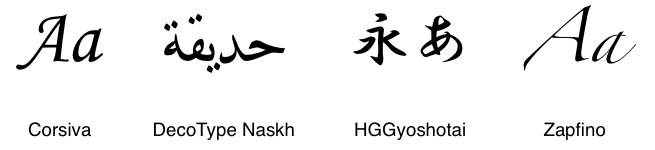
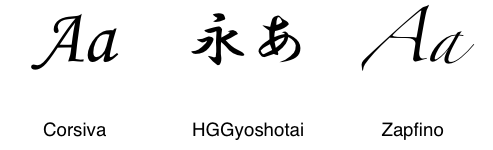
[css-fonts] fixup Arabic references in description of generic fonts

diff --git a/css-fonts/Fonts.html b/css-fonts/Fonts.html
@@ -782,16 +782,19 @@ body { font-family: "New Century Schoolbook", serif }
   <h5 class="no-num no-toc"> <span class=index-def id=serif0 title="serif,
    definition of"><a name=serif-def><dfn id=serif>serif</dfn></a></span></h5>
 
-  <p>Glyphs of serif fonts, as the term is used in CSS, have finishing
-   strokes, flared or tapering ends, or have actual serifed endings
-   (including slab serifs). Serif fonts are typically proportionately-spaced.
-   They often display a greater variation between thick and thin strokes than
-   fonts from the ‘<a href="#sans-serif"><code
-   class=property>sans-serif</code></a>’ generic font family. CSS uses the
-   term ‘<a href="#serif"><code class=property>serif</code></a>’ to apply
-   to a font for any script, although other names may be more familiar for
-   particular scripts, such as Mincho (Japanese), Sung, Song or Kai
-   (Chinese), Batang (Korean). Any font that is so described may be used to
+  <p>Serif fonts represent the formal text style for a script. This often
+   means but is not limited to glyphs that have finishing strokes, flared or
+   tapering ends, or have actual serifed endings (including slab serifs).
+   Serif fonts are typically proportionately-spaced. They often display a
+   greater variation between thick and thin strokes than fonts from the ‘<a
+   href="#sans-serif"><code class=property>sans-serif</code></a>’ generic
+   font family. CSS uses the term ‘<a href="#serif"><code
+   class=property>serif</code></a>’ to apply to a font for any script,
+   although other names may be more familiar for particular scripts, such as
+   Mincho (Japanese), Sung, Song or Kai (Chinese), Batang (Korean). For
+   Arabic, the Naskh style would correspond to ‘<a href="#serif"><code
+   class=property>serif</code></a>’ more due to its typographic role rather
+   than its actual design style. Any font that is so described may be used to
    represent the generic ‘<a href="#serif"><code
    class=property>serif</code></a>’ family.
 
@@ -803,11 +806,12 @@ body { font-family: "New Century Schoolbook", serif }
    title="sans-serif, definition of"> <a name=sans-serif-def><dfn
    id=sans-serif>sans-serif</dfn></a></span></h5>
 
-  <p>Glyphs in sans-serif fonts, as the term is used in CSS, have stroke
-   endings that are plain -- without any flaring, cross stroke, or other
-   ornamentation. Sans-serif fonts are typically proportionately-spaced. They
-   often have little variation between thick and thin strokes, compared to
-   fonts from the ‘<a href="#serif"><code
+  <p>Glyphs in sans-serif fonts, as the term is used in CSS, are generally
+   low contrast (vertical and horizontal stems have the close to the same
+   thickness) and have stroke endings that are plain -- without any flaring,
+   cross stroke, or other ornamentation. Sans-serif fonts are typically
+   proportionately-spaced. They often have little variation between thick and
+   thin strokes, compared to fonts from the ‘<a href="#serif"><code
    class=property>serif</code></a>’ family. CSS uses the term ‘<a
    href="#sans-serif"><code class=property>sans-serif</code></a>’ to apply
    to a font for any script, although other names may be more familiar for
@@ -825,14 +829,12 @@ body { font-family: "New Century Schoolbook", serif }
    title="cursive, definition of"> <a name=cursive-def><dfn
    id=cursive>cursive</dfn></a></span></h5>
 
-  <p>Glyphs in cursive fonts generally have either joining strokes or other
-   cursive characteristics beyond those of italic typefaces. The glyphs are
-   partially or completely connected, and the result looks more like
-   handwritten pen or brush writing than printed letterwork. Some scripts,
-   such as Arabic, are almost always cursive. CSS uses the term ‘<a
-   href="#cursive"><code class=property>cursive</code></a>’ to apply to a
-   font for any script, although other names such as Chancery, Brush, Swing
-   and Script are also used in font names.
+  <p>Glyphs in cursive fonts generally use a more informal script style, and
+   the result looks more like handwritten pen or brush writing than printed
+   letterwork. CSS uses the term ‘<a href="#cursive"><code
+   class=property>cursive</code></a>’ to apply to a font for any script,
+   although other names such as Chancery, Brush, Swing and Script are also
+   used in font names.
 
   <div class=figure><img alt="sample cursive fonts" src=cursiveexamples.png>
    <p class=caption>Sample cursive fonts
@@ -842,9 +844,9 @@ body { font-family: "New Century Schoolbook", serif }
    title="fantasy, definition of"> <a name=fantasy-def><dfn
    id=fantasy>fantasy</dfn></a></span></h5>
 
-  <p>Fantasy fonts are primarily decorative fonts that contain playful
-   representations of characters. These do not include Pi or Picture fonts
-   which do not represent actual characters.
+  <p>Fantasy fonts are primarily decorative or expressive fonts that contain
+   playful representations of characters. These do not include Pi or Picture
+   fonts which do not represent actual characters.
 
   <div class=figure><img alt="sample fantasy fonts" src=fantasyexamples.png>
    <p class=caption>Sample fantasy fonts
